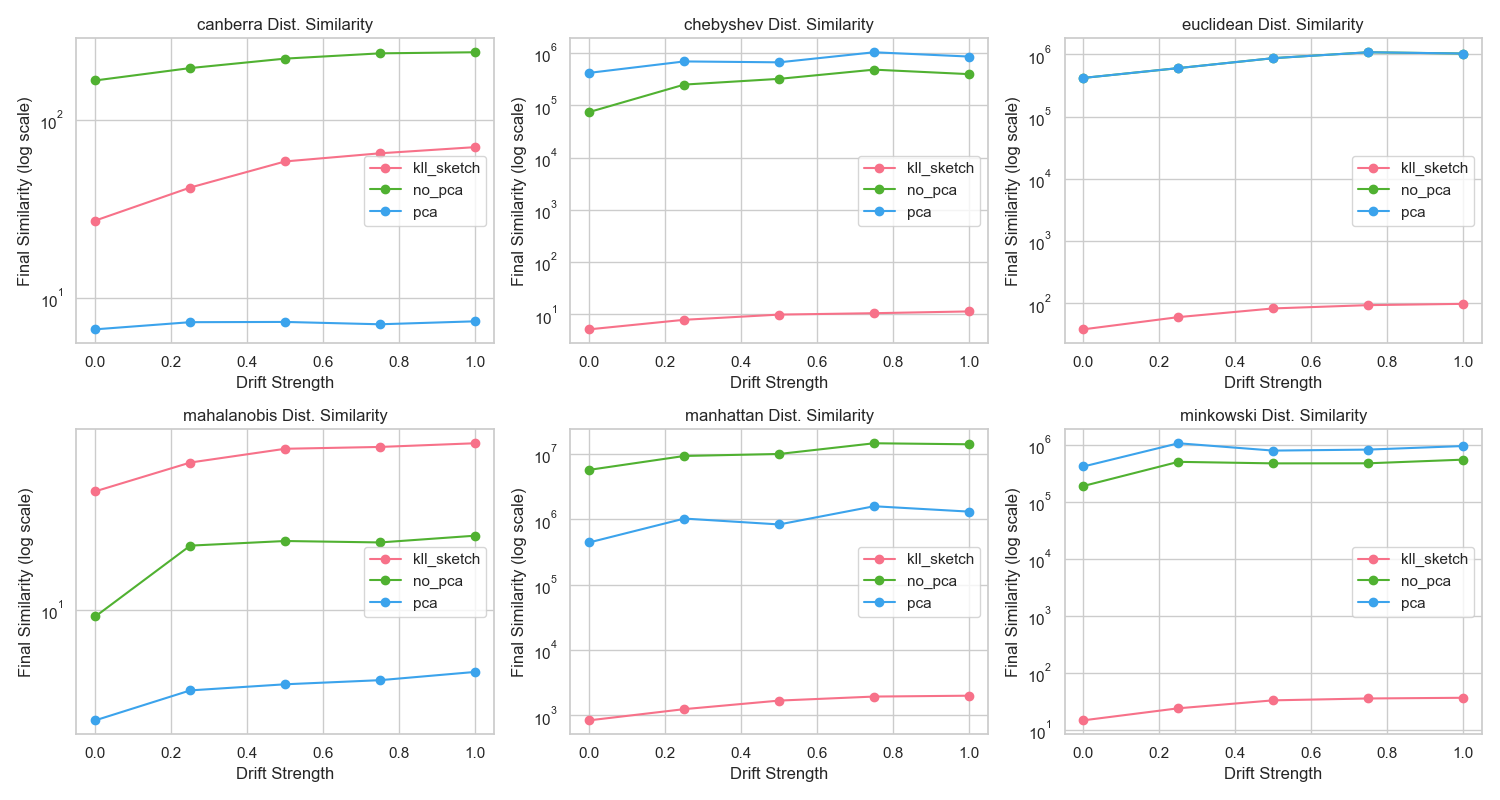
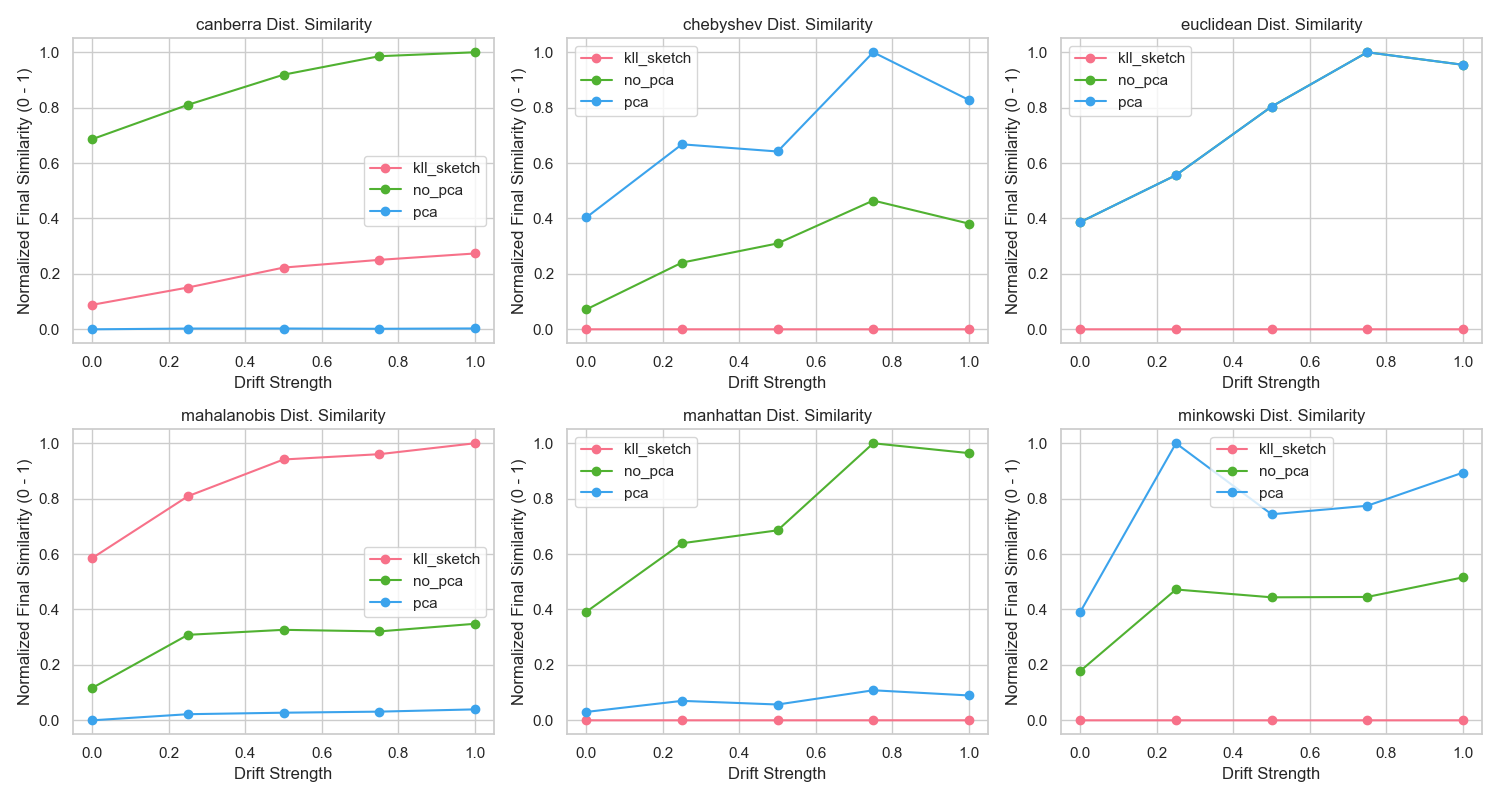
fix:

diff --git a/driftwatch/plot.py b/driftwatch/plot.py
@@ -30,7 +30,22 @@ def flatten_data(results_data):
     return pd.DataFrame(records_list)
 
 def plot_final_similarity(df, output_dir):
+    # Compute mean final_similarity at each group
     df_sim = df.groupby(["distance_name", "drift_strength", "method"], as_index=False)["final_similarity"].mean()
+
+    # For each distance_name, min–max normalize the final_similarity
+    df_sim["final_similarity_norm"] = 0.0
+    for dist_name, group_data in df_sim.groupby("distance_name"):
+        min_val = group_data["final_similarity"].min()
+        max_val = group_data["final_similarity"].max()
+        if max_val - min_val == 0:
+            # Handle edge case where all values are the same
+            df_sim.loc[group_data.index, "final_similarity_norm"] = 0.0
+        else:
+            df_sim.loc[group_data.index, "final_similarity_norm"] = (
+                (group_data["final_similarity"] - min_val) / (max_val - min_val)
+            )
+
     unique_distances = df_sim["distance_name"].unique()
     num_dist = len(unique_distances)
     num_cols = 3
@@ -45,14 +60,21 @@ def plot_final_similarity(df, output_dir):
         subset = df_sim[df_sim["distance_name"] == dist_name]
         for j, method_name in enumerate(subset["method"].unique()):
             sub_m = subset[subset["method"] == method_name]
-            ax.plot(sub_m["drift_strength"], sub_m["final_similarity"], marker='o', label=method_name, color=palette[j])
+            ax.plot(
+                sub_m["drift_strength"],
+                sub_m["final_similarity_norm"],
+                marker='o',
+                label=method_name,
+                color=palette[j]
+            )
         ax.set_title(f"{dist_name} Dist. Similarity")
         ax.set_xlabel("Drift Strength")
-        ax.set_ylabel("Final Similarity (log scale)")
-        ax.set_yscale("log")
+        ax.set_ylabel("Normalized Final Similarity (0 - 1)")
+        # ax.set_ylim(0, 1)
         ax.grid(True)
         ax.legend()
 
+    # Remove extra subplots
     for j in range(num_dist, len(axes)):
         fig.delaxes(axes[j])
 
@@ -61,6 +83,7 @@ def plot_final_similarity(df, output_dir):
     plt.savefig(path_sim)
     plt.close()
     print(f"[Saved] {path_sim}")
+
 
 def plot_avg_overhead(df, output_dir):
     df_overhead = df.groupby(["model_name", "method"], as_index=False)["avg_overhead"].mean()
